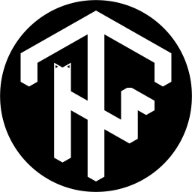
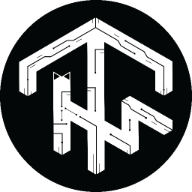
feat: Update UI elements and assets
- Increase the number of images in the project page
- Update the blog layout with a new logo and title
- Correct the canonical link in the blog page
- Adjust the grid layout in the blog page
- Simplify the icon definitions in the manifest
- Update the technologies listed in the about section
- Replace several image assets with new versions
- Update the SVG logo

diff --git a/app/manifest.ts b/app/manifest.ts
@@ -11,36 +11,12 @@ const manifest = (): MetadataRoute.Manifest => ({
   background_color: '#ffffff',
   theme_color: '#ffffff',
   icons: [
-    {
-      src: '/favicon.ico',
-      sizes: 'any',
-      type: 'image/x-icon',
-    },
-    {
-      src: '/favicon-16x16.png',
-      sizes: '16x16',
-      type: 'image/png',
-    },
-    {
-      src: '/favicon-32x32.png',
-      sizes: '32x32',
-      type: 'image/png',
-    },
-    {
-      src: '/apple-touch-icon.png',
-      sizes: '180x180',
-      type: 'image/png',
-    },
-    {
-      src: '/android-chrome-192x192.png',
-      sizes: '192x192',
-      type: 'image/png',
-    },
-    {
-      src: '/android-chrome-512x512.png',
-      sizes: '512x512',
-      type: 'image/png',
-    },
+    { src: '/favicon.ico', sizes: 'any', type: 'image/x-icon' },
+    { src: '/favicon-16x16.png', sizes: '16x16', type: 'image/png' },
+    { src: '/favicon-32x32.png', sizes: '32x32', type: 'image/png' },
+    { src: '/apple-touch-icon.png', sizes: '180x180', type: 'image/png' },
+    { src: '/android-chrome-192x192.png', sizes: '192x192', type: 'image/png' },
+    { src: '/android-chrome-512x512.png', sizes: '512x512', type: 'image/png' },
   ],
 })
 

diff --git a/components/landing/about-section/index.tsx b/components/landing/about-section/index.tsx
@@ -12,9 +12,9 @@ export const AboutSection: React.FC = () => (
 
         <p className="mt-4 text-lg font-medium leading-7 md:text-3xl">
           I am a full stack web developer with a passion for creating interactive and responsive web
-          applications. I have experience working with TypeScript, Next.js, TailwindCSS, ElysiaJS,
-          Prisma, MongoDb and more... Sometime I also work with Machine Learning. I am a quick
-          learner and I am always looking to expand my knowledge and skill set.
+          applications. I have experience working with TypeScript, Next.js, TailwindCSS, tRPC,
+          ElysiaJS, Prisma, MongoDb and more... Sometime I also work with Machine Learning. I am a
+          quick learner and I am always looking to expand my knowledge and skill set.
         </p>
       </article>
 

diff --git a/app/blog/layout.tsx b/app/blog/layout.tsx
@@ -1,12 +1,21 @@
 import { DocsLayout, type DocsLayoutProps } from 'fumadocs-ui/layout'
 import { RootProvider } from 'fumadocs-ui/provider'
+import Image from 'next/image'
+import Link from 'next/link'
 
 import { ScrollToTop } from '@/components/scroll-to-top'
 import { pageTree } from '@/content'
-import Link from 'next/link'
 
 const docsOptions: DocsLayoutProps = {
-  nav: { title: 'Blog | Tiesen', url: '/blog' },
+  nav: {
+    title: (
+      <div className="flex gap-2">
+        <Image src="/imgs/logo.svg" alt="Tiesen" width={28} height={28} className="dark:invert" />
+        <span className="text-lg font-bold">Blog | Tiesen</span>
+      </div>
+    ),
+    url: '/blog',
+  },
   sidebar: {
     footer: <Link href="/">&copy; {new Date().getFullYear()} Tiesen</Link>,
   },

diff --git a/app/blog/page.tsx b/app/blog/page.tsx
@@ -9,14 +9,14 @@ export const metadata = {
   title: 'Blog',
   description,
   openGraph: { images: `/og?title=Blog&desc=${description}`, url: `${getBaseUrl()}/blog` },
-  alternates: { canonical: `${getBaseUrl()}/projects` },
+  alternates: { canonical: `${getBaseUrl()}/blog` },
 }
 
 const Page: NextPage = () => {
   const blogs = getPages()
 
   return (
-    <main className="container my-4 grid grid-cols-1 gap-4 md:grid-cols-3">
+    <main className="container my-4 grid grid-cols-1 gap-4 md:grid-cols-2 lg:grid-cols-3">
       {blogs.map((blog) => (
         <BlogCard key={blog.url} blog={blog} />
       ))}

diff --git a/app/(main)/projects/page.tsx b/app/(main)/projects/page.tsx
@@ -31,7 +31,7 @@ const Page: NextPage = async () => {
       <hr className="mx-auto my-4 w-11/12 rounded-full" />
 
       <section className="space-y-4">
-        {Array.from({ length: 4 }).map((_, i) => (
+        {Array.from({ length: 5 }).map((_, i) => (
           <Image
             key={`design-${i + 1}`}
             src={`/design/${i + 1}.png`}
